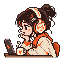
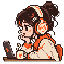
fix: normalize emote frame margins

diff --git a/README.md b/README.md
@@ -46,7 +46,8 @@ Then map it in your pi-emote config:
 
 ## Notes
 
-- All PNGs in this set have been re-encoded cleanly.
+- All state PNGs are 64x64 with a consistent 1px transparent border.
+- PNGs have been re-encoded cleanly.
 - The talk frames are unique: `talk_close`, `talk_small`, `talk_mid`, `talk_wide`.
 - The write animation frames are unique: `write1`, `write2`.
 - `idle` and `think` use `emotes.json` to map default and alternate frames.
